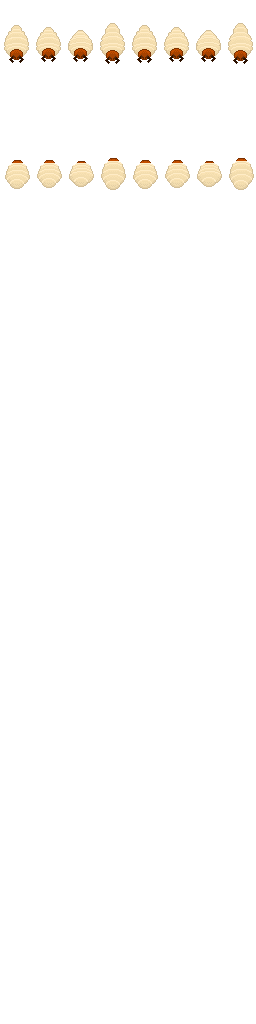
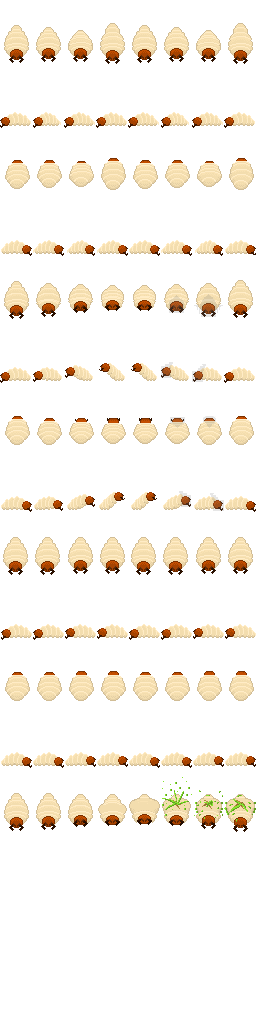
More animation and fixed movement(kind of) 	- Completed the Maggot Enemy animation 	- Fixed Movement bug, kind of, made both player's and enemy's circles smaller so that the enemy doesn't flip out whenever it's overlapping with player's circle, seems to work for now..

diff --git a/SwampMonster/src/com/me/swampmonster/models/Enemy.java b/SwampMonster/src/com/me/swampmonster/models/Enemy.java
@@ -41,7 +41,7 @@ public class Enemy extends AbstractGameObject implements Cloneable{
 		gReenAura = new Circle();
 		gReenAura.radius = 164;
 		oRangeAura = new Circle();
-		oRangeAura.radius = 16;
+		oRangeAura.radius = 8;
 		animationsStandard.put(State.PURSUIT, new AnimationControl("data/Skelenten.png", 8, 16, 8)); 
 		animationsStandard.put(State.STANDARD, new AnimationControl("data/Skelenten.png", 8, 16, 8)); 
 		animationsStandard.put(State.ATTACKING, new AnimationControl("data/Skelenten.png", 8, 16, 8)); 
@@ -133,7 +133,9 @@ public class Enemy extends AbstractGameObject implements Cloneable{
 			if(state.equals(State.STANDARD)){
 				sprite.setRegion(animations.get(state).getCurrentFrame());
             	
-            	if(timer == 0 && timer2 == 0){
+            	if(timer == 0 && timer2 == 0 && !getoRangeAura().overlaps(player.getCircle()) && player.getState() != State.DEAD){
+            		
+//            		System.out.println("move is active... and overlpas is: " + getoRangeAura().overlaps(player.getCircle()));
             		
             		Collidable collidableLeft = null;
             		Collidable collidableRight = null;
@@ -153,25 +155,29 @@ public class Enemy extends AbstractGameObject implements Cloneable{
             	}
             	
             	if(oldPos.x != position.x || oldPos.y != position.y && timer>0 && timer2>0){
+//            		System.out.println("yes!1");
             		timer = 0;
             		timer2 = 0;
+//            		System.out.println("condition oldPos.x != position.x || oldPos.y != position.y && timer>0 && timer2>0 is true!");
             	}
             	
             	if(getoRangeAura().overlaps(player.getCircle()) && player.getState() != State.DEAD){
-	            	if(playerMovementDirectionLR == "right"){
+//            		System.out.println("yes!2 and overlpas is: " + getoRangeAura().overlaps(player.getCircle()));
+	            	if(playerMovementDirection == "right"){
 	            		inflictOnThe(88, 56, player, cameraHelper);
 	            	}
-	            	if(playerMovementDirectionLR == "left"){
+	            	if(playerMovementDirection == "left"){
 	            		inflictOnThe(72, 40, player, cameraHelper);
 	            	}
-	            	if(playerMovementDirectionLR == "up"){
+	            	if(playerMovementDirection == "up"){
 	            		inflictOnThe(80, 48, player, cameraHelper);
 	            	}
-	            	if(playerMovementDirectionLR == "down"){
+	            	if(playerMovementDirection == "down"){
 	            		inflictOnThe(64, 32, player, cameraHelper);
 	            	}
             	}
             	if(!getoRangeAura().overlaps(player.getCircle())){
+//            		System.out.println("yes!3");
             		timer = 0;
             		timer2 = 0;
             	}

diff --git a/SwampMonster/src/com/me/swampmonster/models/EnemyMaggot.java b/SwampMonster/src/com/me/swampmonster/models/EnemyMaggot.java
@@ -3,17 +3,17 @@ package com.me.swampmonster.models;
 import com.badlogic.gdx.graphics.g2d.Sprite;
 import com.badlogic.gdx.math.Vector2;
 import com.me.swampmonster.animations.AnimationControl;
-import com.me.swampmonster.models.AbstractGameObject.State;
 
 public class EnemyMaggot extends Enemy {
 
 	public EnemyMaggot(Vector2 position) {
 		super(position);
 		
-		animationsStandard.put(State.STANDARD, new AnimationControl("data/EnemyMaggot.png", 8, 16, 8)); 
-		animationsStandard.put(State.PURSUIT, new AnimationControl("data/EnemyMaggot.png", 8, 16, 8)); 
+		animationsStandard.put(State.STANDARD, new AnimationControl("data/EnemyMaggot.png", 8, 16, 7)); 
+		animationsStandard.put(State.PURSUIT, new AnimationControl("data/EnemyMaggot.png", 8, 16, 7)); 
+		animationsStandard.put(State.DEAD, new AnimationControl("data/EnemyMaggot.png", 8, 16, 4)); 
 		sprite = new Sprite(animationsStandard.get(state).getCurrentFrame());
-		sprite.setColor(0, 1, 0, 0.7f);
+//		sprite.setColor(0, 1, 0, 0.7f);
 		playerMovementSpeed = 0.6f;
 		health = 1;
 		damage = 1;

diff --git a/SwampMonster/src/com/me/swampmonster/game/L1Renderer.java b/SwampMonster/src/com/me/swampmonster/game/L1Renderer.java
@@ -98,7 +98,7 @@ public class L1Renderer {
 		
 		batch.begin();
 		for (Enemy enemy : theController.level1.getEnemies()){
-			if(enemy.getPosition().y+32 > theController.level1.getPlayer().getPosition().y+32){
+			if(enemy.getPosition().y+42 > theController.level1.getPlayer().getPosition().y+42){
 				enemy.getSprite().setPosition(enemy.getPosition().x, enemy.getPosition().y);
 				enemy.getSprite().draw(batch);
 			}
@@ -110,7 +110,7 @@ public class L1Renderer {
 //					theController.level1.getPlayer().getSprite().getWidth(), theController.level1.getPlayer().getSprite().getHeight());
 //			theController.level1.drawEnemy(batch);
 		for(Enemy enemy : theController.level1.getEnemies()){
-			if(enemy.getPosition().y+32 < theController.level1.getPlayer().getPosition().y+32){
+			if(enemy.getPosition().y+42 < theController.level1.getPlayer().getPosition().y+42){
 				enemy.getSprite().setPosition(enemy.getPosition().x, enemy.getPosition().y);
 				enemy.getSprite().draw(batch);
 			}

diff --git a/SwampMonster/src/com/me/swampmonster/models/EnemyZombie.java b/SwampMonster/src/com/me/swampmonster/models/EnemyZombie.java
@@ -9,8 +9,8 @@ public class EnemyZombie extends Enemy{
 	public EnemyZombie(Vector2 position) {
 		super(position);
 		
-		animationsStandard.put(State.PURSUIT, new AnimationControl("data/EnemyZombie.png", 8, 16, 8)); 
-		animationsStandard.put(State.STANDARD, new AnimationControl("data/EnemyZombie.png", 8, 16, 8)); 
+		animationsStandard.put(State.PURSUIT, new AnimationControl("data/EnemyZombie.png", 8, 16, 7)); 
+		animationsStandard.put(State.STANDARD, new AnimationControl("data/EnemyZombie.png", 8, 16, 7)); 
 		animationsStandard.put(State.DEAD, new AnimationControl("data/EnemyZombie.png", 8, 16, 4)); 
 		sprite = new Sprite(animationsStandard.get(state).getCurrentFrame());
 		sprite.setColor(1, 1, 1, 1);

diff --git a/SwampMonster/src/com/me/swampmonster/models/Player.java b/SwampMonster/src/com/me/swampmonster/models/Player.java
@@ -40,7 +40,7 @@ public class Player extends AbstractGameObject{
 		nastyaSpriteGun = "data/NastyaGunSheet.png";
 		
 		circle = new Circle();
-		circle.radius = 16;
+		circle.radius = 8;
 		rectanlge = new Rectangle();
 		
 		animationsStandard.put(State.STANDARD, new AnimationControl(nastyaSpriteStandard, 8, 32, 7)); 
@@ -248,7 +248,7 @@ public class Player extends AbstractGameObject{
 		
 		// Shooting
 		if(shooting && timeShooting < 30){
-			System.out.println("shooting...");
+//			System.out.println("shooting...");
 			currentFrame = animations.get(state).doComplexAnimation(32, 0.5f, 0.001f);
 			
 			sprite.setRegion(animations.get(state).getCurrentFrame());
